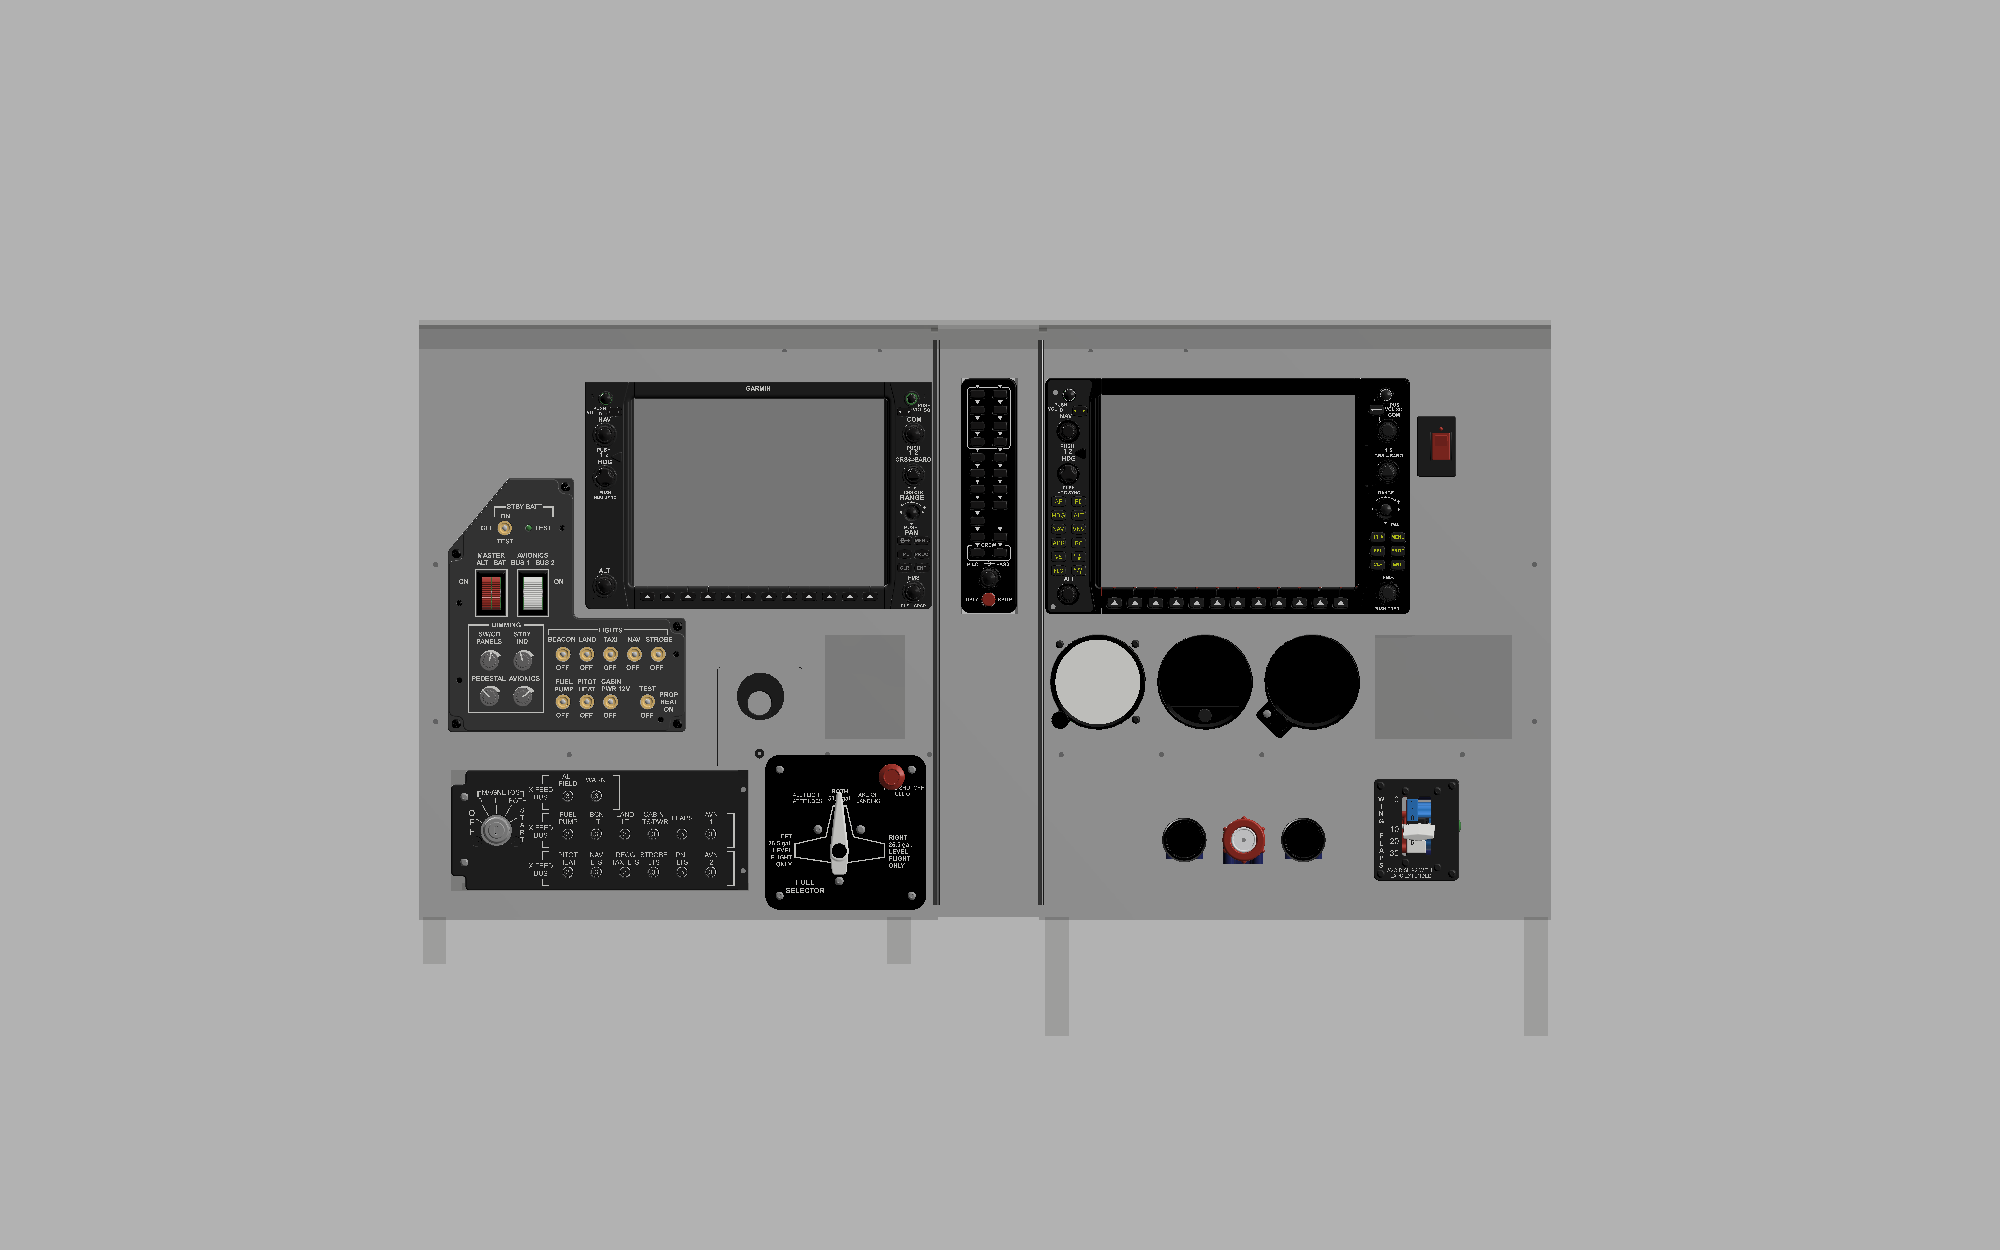
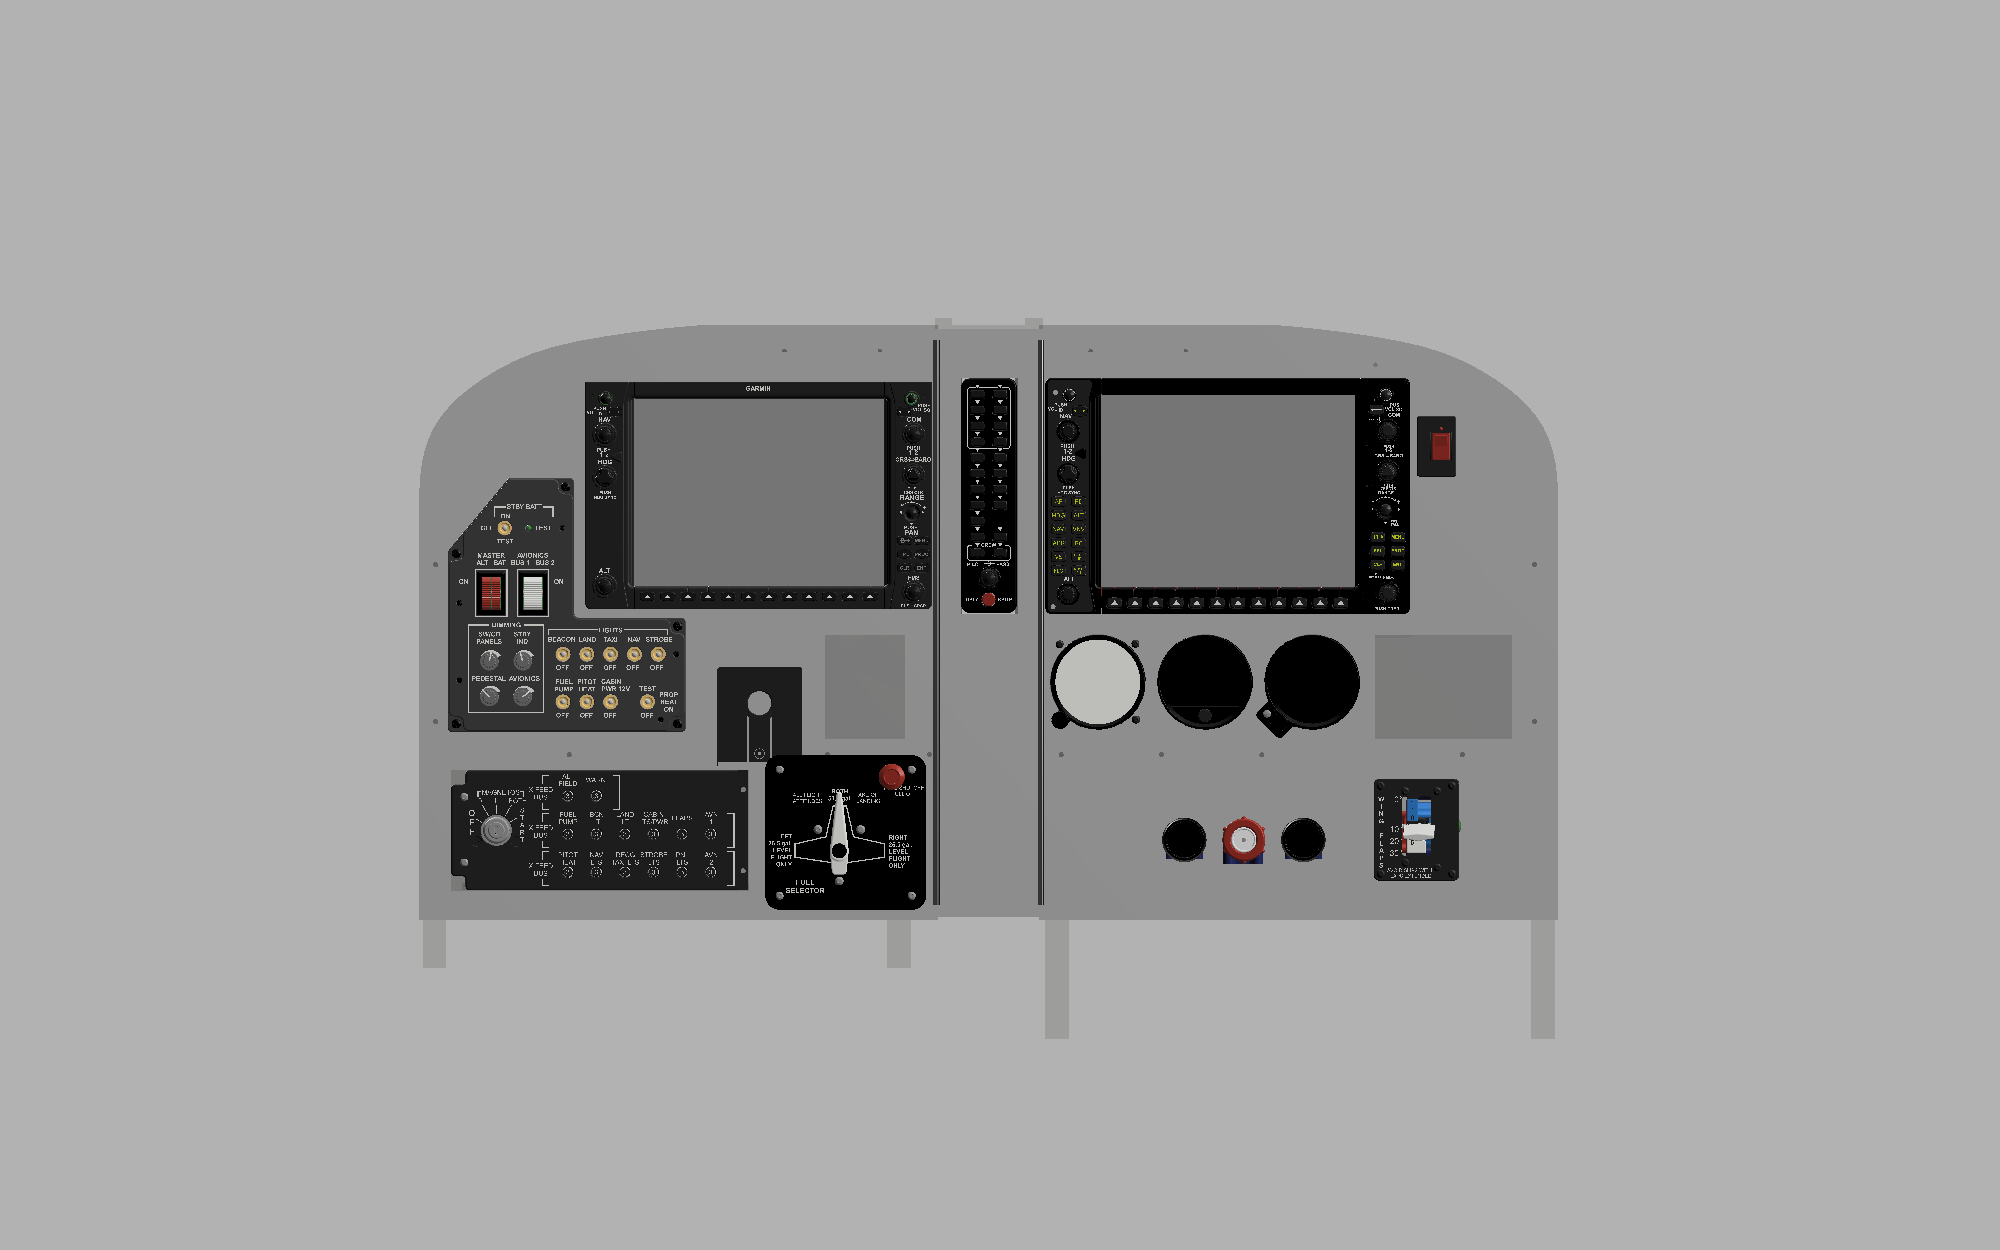
Keep the radius; forward-extended rim skins close the case completely
Each half gets a 3 mm skin following the real panel outline (side, curved
corner, top, bottom) from its rear lid to 46.5 mm in front of the face, so the
folded halves meet edge to edge. 6 mm edge filler on the right half evens the
outlines. Rear 2020 frames stay inside the curve; curved rear lids. The top rim
is the glareshield, magnetic middle piece kept. Clash and fold checks clean.

diff --git a/fusion/build_rim.py b/fusion/build_rim.py
@@ -1,0 +1,134 @@
+# Closing rim (Jason: keep the radius, extend the sides so it closes completely). Runs after build_storage.
+# Each half gets a 3 mm skin that follows HIS panel outline (outer side, the big curved top corner, top run and
+# bottom), from its rear lid to 46.5 mm in front of the panel face = half the folded face gap. Folded, the two
+# rims meet edge to edge in the middle of the gap, so the case is closed on top, bottom and the outer side; the
+# spacer closes the hinge side. Deployed, the top run of the rim is the glareshield (46.5 mm overhang).
+# The outline is sampled from the real panel and used as a convex polygon (intersection of half-spaces), so the
+# skin, the curved rear lid and the right half's 6 mm edge filler all share exactly the same curve.
+# Also: seam-side walls of the rear boxes, and the magnetic middle glareshield piece over the spacer (deployed only).
+# Units mm, frame as build_case_mip (X right, Y toward pilot, Z up, u = x + 460).
+import importlib.util, math
+import adsk.core, adsk.fusion
+
+BASE = r'D:/Admin/Documents/Projects/FlightSimCase/fusion/'
+
+
+def _load(n):
+    spec = importlib.util.spec_from_file_location(n, BASE + n + '.py')
+    m = importlib.util.module_from_spec(spec); spec.loader.exec_module(m)
+    return m
+
+
+bcm = _load('build_case_mip')
+P = bcm.P
+
+
+def X(u):
+    return u - 460.0
+
+
+def build_rim():
+    st = _load('build_storage')
+    app = adsk.core.Application.get()
+    d = adsk.fusion.Design.cast(app.activeProduct)
+    root = d.rootComponent
+    tbm = adsk.fusion.TemporaryBRepManager.get()
+    SUB = adsk.fusion.BooleanTypes.DifferenceBooleanType
+    UNI = adsk.fusion.BooleanTypes.UnionBooleanType
+    INT = adsk.fusion.BooleanTypes.IntersectionBooleanType
+
+    def op(a, b, k):
+        if not tbm.booleanOperation(a, b, k):
+            raise RuntimeError('boolean failed')
+
+    def F(x, y, z):
+        return adsk.core.Point3D.create(x / 10.0, -y / 10.0, z / 10.0)
+
+    def box(x0, x1, y0, y1, a, b):
+        p = F(x0, y0, a); q = F(x1, y1, b)
+        lo = [min(p.x, q.x), min(p.y, q.y), min(p.z, q.z)]; hi = [max(p.x, q.x), max(p.y, q.y), max(p.z, q.z)]
+        c = adsk.core.Point3D.create((lo[0] + hi[0]) / 2, (lo[1] + hi[1]) / 2, (lo[2] + hi[2]) / 2)
+        return tbm.createBox(adsk.core.OrientedBoundingBox3D.create(c, adsk.core.Vector3D.create(1, 0, 0), adsk.core.Vector3D.create(0, 1, 0),
+                                                                   hi[0] - lo[0], hi[1] - lo[1], hi[2] - lo[2]))
+
+    uA, uB, hg = P['uA'], P['uB'], P['hg']
+    l1 = uB - hg; r0 = uA + hg; r1 = 920.0 + P['shift_right']
+    tp, zl, sk, rim, zt = P['t_panel'], P['z_low'], P['skin'], P['rim'], 369.0
+    hosts = {o.component.name: o for o in root.occurrences}
+
+    # --- sample his top outline from the left panel: (d, z), d = distance in from the outer edge
+    pan = [b for b in hosts['Left half'].component.bRepBodies if b.name.startswith('PANEL 737')][0]
+
+    def slab_top(dd):
+        c = tbm.copy(pan); op(c, box(X(dd) - 0.05, X(dd) + 0.05, -20, 20, 150, 400), INT)
+        return c.boundingBox.maxPoint.z * 10
+
+    def slab_edge(z):
+        c = tbm.copy(pan); op(c, box(X(-5), X(200), -20, 20, z - 0.05, z + 0.05), INT)
+        return c.boundingBox.minPoint.x * 10 + 460
+    pts = [(0.0, 216.0)] + [(slab_edge(z), z) for z in (225.0, 235.0, 245.0, 255.0, 265.0, 275.0)]
+    pts += [(dd, slab_top(dd)) for dd in (12.0, 18, 25, 33, 42, 52, 64, 78, 94, 112, 132, 155, 180, 205, 225, 236)]
+    pts = sorted(set((round(p[0], 2), round(p[1], 2)) for p in pts))
+    pts.append((l1, zt))
+
+    def interior(host, off, y0, y1, edge_shift=0.0):
+        """region inside the half's outline grown outward by `off` (not at the seam), extruded y0..y1"""
+        if host == 'Left half':
+            body = box(X(-off), X(l1), y0, y1, zl - off, 470)
+            umap = lambda dd: dd
+            sgn = 1.0
+        else:
+            R = r1 + edge_shift
+            body = box(X(r0), X(R + off), y0, y1, zl - off, 470)
+            umap = lambda dd: R - dd
+            sgn = -1.0
+        for (d0, z0), (d1, z1) in zip(pts[:-1], pts[1:]):
+            dd, dz = d1 - d0, z1 - z0
+            ln = math.hypot(dd, dz)
+            nd, nz = -dz / ln, dd / ln              # outward normal in (d, z)
+            nu = sgn * nd
+            mu, mz = (umap(d0) + umap(d1)) / 2.0, (z0 + z1) / 2.0
+            cu = mu + nu * (off - 500.0); cz = mz + nz * (off - 500.0)
+            tdir = adsk.core.Vector3D.create(umap(d1) - umap(d0), 0, dz); tdir.normalize()
+            half = tbm.createBox(adsk.core.OrientedBoundingBox3D.create(F(X(cu), (y0 + y1) / 2.0, cz), tdir, adsk.core.Vector3D.create(0, 1, 0),
+                                                                        400.0, abs(y1 - y0) / 10.0 + 0.2, 100.0))
+            op(body, half, INT)
+        return body
+
+    sh = {'Left half': 0.0, 'Right half': P['r_ext']}
+    items = {'Left half': [], 'Right half': [], 'Spacer': []}
+    for h in ('Left half', 'Right half'):
+        B = st.S['tub_back'][h]
+        y0, y1 = -B + sk, rim
+        skin = interior(h, sk, y0, y1, sh[h])
+        op(skin, interior(h, 0.0, y0 - 1, y1 + 1, sh[h]), SUB)
+        items[h].append(('PANEL rim skin, closes the case (3 mm)', skin))
+        items[h].append(('PANEL rear lid (3 mm, removable)', interior(h, sk, -B, -B + sk, sh[h])))
+        # seam-side wall of the rear box (outside the seam column, behind the seam angle)
+        if h == 'Left half':
+            items[h].append(('PANEL seam side wall (3 mm)', box(X(l1), X(l1) + sk, -B, -tp - 20, zl - sk, zt + sk)))
+        else:
+            items[h].append(('PANEL seam side wall (3 mm)', box(X(r0) - sk, X(r0), -B, -tp - 20, zl - sk, zt + sk)))
+    # right half: 6 mm edge filler in the panel plane so both halves have the same outline (430 wide)
+    fill = interior('Right half', 0.0, -tp, 0.0, P['r_ext'])
+    op(fill, interior('Right half', 0.0, -tp - 1, 1.0, 0.0), SUB)
+    items['Right half'].append(('PANEL edge filler 6 mm (right half)', fill))
+
+    # middle glareshield piece over the spacer: deployed only, magnets into the rim ends
+    M = box(X(l1), X(r0), -tp, rim, zt, zt + sk)
+    op(M, box(X(l1), X(r0), -tp, 0, zt - 0.0, zt + sk), UNI)
+    for ue, sgn in ((l1, 1), (r0, -1)):
+        op(M, box(X(ue) if sgn > 0 else X(ue) - 15, X(ue) + 15 if sgn > 0 else X(ue), 3.0, rim - 3, zt + sk, zt + sk + 6), UNI)
+    items['Spacer'].append(('PRINT glareshield middle (magnetic, deployed only)', M))
+
+    for h, its in items.items():
+        comp = hosts[h].component
+        bf = comp.features.baseFeatures.add(); bf.startEdit()
+        for nm, bd in its:
+            nb = comp.bRepBodies.add(bd, bf); nb.name = nm
+        bf.finishEdit()
+    print('rim: 3 mm skins to %.1f mm in front of the face, outline points %d' % (rim, len(pts)))
+
+
+def run(_context: str):
+    build_rim()

diff --git a/fusion/build_storage.py b/fusion/build_storage.py
@@ -86,36 +86,26 @@ def build_storage():
     ext = importlib.util.module_from_spec(spx); spx.loader.exec_module(ext)
     prof = ext.make(tbm, F)
     zt = 369.0
-    # rear box of each half, built from 2020 extrusion (square top): a rear frame just inside the removable lid,
-    # four corner depth members back from the front frame, 3 mm ply skins on the outer side, top, bottom and the
-    # seam side (outside, so nothing inside the tub loses space), and the 3 mm rear lid.
+    # rear frame of each half in 2020 extrusion, kept INSIDE his curved outline: a rear frame just inside the lid
+    # (outer post up to z 216 where the corner curve starts, seam post full height, bottom rail, top rail along the
+    # straight top run) and depth members back from the front frame. The curved rim + rear lid (build_rim) skin it.
     for h in ('Left half', 'Right half'):
         B = S['tub_back'][h]
-        yr1 = -B + w; yr0 = yr1 + T            # rear frame occupies y yr1..yr0, just inside the lid (pilot y, negative = behind)
+        yr1 = -B + w; yr0 = yr1 + T            # rear frame occupies y yr1..yr0, just inside the lid
         if h == 'Left half':
-            uo0, uo1, us0, us1, ua, ub = l0, l0 + T, l1 - T, l1, l0, l1     # outer column, seam column
+            uo0, uo1, us0, us1, ut0, ut1 = l0, l0 + T, l1 - T, l1, 240.0, l1 - T
         else:
-            uo0, uo1, us0, us1, ua, ub = r1 - T, r1, r0, r0 + T, r0, r1
+            ro = r1 + P['r_ext']
+            uo0, uo1, us0, us1, ut0, ut1 = ro - T, ro, r0, r0 + T, r0 + T, 705.0
         fr = []
-        # rear frame: two verticals + top/bottom horizontals
-        fr.append(('2020 Rear post %d' % round(zt - zl), prof(X(uo0), X(uo1), yr1, yr0, zl, zt)))
+        fr.append(('2020 Rear post %d' % round(216.0 - zl), prof(X(uo0), X(uo1), yr1, yr0, zl, 216.0)))
         fr.append(('2020 Rear post %d' % round(zt - zl), prof(X(us0), X(us1), yr1, yr0, zl, zt)))
-        hlo, hhi = min(uo1, us1), max(uo0, us0)
-        hlo = (uo1 if uo1 < us0 else us1); hhi = (us0 if uo1 < us0 else uo0)
-        fr.append(('2020 Rear rail %d' % round(hhi - hlo), prof(X(hlo), X(hhi), yr1, yr0, zt - T, zt)))
-        fr.append(('2020 Rear rail %d' % round(hhi - hlo), prof(X(hlo), X(hhi), yr1, yr0, zl, zl + T)))
-        # corner depth members: outer ones start behind the 2040 upright (y -49), seam ones behind the seam angle (-29)
-        for (c0, c1, yf) in ((uo0, uo1, -tp - 40), (us0, us1, -tp - 20)):
-            for (z0, z1) in ((zt - T, zt), (zl, zl + T)):
-                fr.append(('2020 Depth %d' % round(yf - yr0), prof(X(c0), X(c1), yf, yr0, z0, z1)))
-        # skins (3 mm ply), outside the frame
-        side = (X(ua) - w, X(ua)) if h == 'Left half' else (X(ub), X(ub) + w)
-        seam = (X(ub), X(ub) + w) if h == 'Left half' else (X(ua) - w, X(ua))
-        fr.append(('PANEL skin outer side (3 mm ply)', box(side[0], side[1], yr1 - 0.0, -tp, zl, zt)))
-        fr.append(('PANEL skin seam side (3 mm ply)', box(seam[0], seam[1], -B, -tp - 20, zl, zt)))
-        fr.append(('PANEL skin top (3 mm ply)', box(X(ua) - w, X(ub) + w, -B, -tp, zt, zt + w)))
-        fr.append(('PANEL skin bottom (3 mm ply)', box(X(ua) - w, X(ub) + w, -B, -tp - 40, zl - w, zl)))   # stops behind the feet
-        fr.append(('PANEL rear lid (3 mm ply, removable)', box(X(ua) - w, X(ub) + w, -B, -B + w, zl, zt)))
+        blo, bhi = (uo1, us0) if uo1 < us0 else (us1, uo0)
+        fr.append(('2020 Rear rail %d' % round(bhi - blo), prof(X(blo), X(bhi), yr1, yr0, zl, zl + T)))
+        fr.append(('2020 Rear rail %d' % round(ut1 - ut0), prof(X(ut0), X(ut1), yr1, yr0, zt - T, zt)))
+        for (c0, c1, yf, z0, z1) in ((uo0, uo1, -tp - 40, zl, zl + T), (uo0, uo1, -tp - 40, 216.0 - T, 216.0),
+                                     (us0, us1, -tp - 20, zl, zl + T), (us0, us1, -tp - 20, zt - T, zt)):
+            fr.append(('2020 Depth %d' % round(yf - yr0), prof(X(c0), X(c1), yf, yr0, z0, z1)))
         items[h].extend(fr)
 
     # face pockets (open-front print trays behind the panel cut-outs)

diff --git a/fusion/build_case_mip.py b/fusion/build_case_mip.py
@@ -20,7 +20,11 @@ P = dict(
     z_low=-125.0,                # bottom of the lower panel (his fuse panels reach z -103)
     # open face pockets (u0, u1, z0, z1): blank panel areas that face the other half's protruding parts when
     # closed, so they double as storage pockets; between the 2020 rails at z 10 and z 126
-    square_top=True,             # Jason: lose the top corner radius -> straight extrusion frame + straight glareshield
+    square_top=False,            # Jason: KEEP his curved top corners
+    r_ext=6.0,                   # right half is 6 mm narrower than the left (424 vs 430): a 6 mm edge filler on its outer
+                                 # edge evens them so the forward-extended rims meet exactly when folded
+    rim=46.5,                    # each half's rim (top, curved corner, outer side, bottom) runs this far in front of the face
+    skin=3.0,
     pockets=(('Left half', 338.0, 405.0, 24.0, 112.0), ('Right half', 800.0, 915.0, 24.0, 112.0)),
 )
 
@@ -141,17 +145,19 @@ def build():
     ft = P['foot']; yk = P['kn']
     left = [('PANEL 737DIYSIM MIP - left (switches + PFD)', left_panel), seam_angle(l1, -1),
             ('HINGE leaf', box(X(l1), X(l1) + 1.4, -tp - 20, 0, zl + 10, 359))]
-    left += frame(l0, l1, True, False, [(l0 + T, l1 - 20, zl + 10), (l0 + T, l1 - 20, 10.0), (215.5, l1 - 20, 126.0), (l0 + T, l1 - 20, 359.0)])
+    left += frame(l0, l1, True, False, [(l0 + T, l1 - 20, zl + 10), (l0 + T, l1 - 20, 10.0), (215.5, l1 - 20, 126.0), (240.0, l1 - 20, 359.0)])
     for xu in (X(l0), X(l1) - 40):
-        left.append(('PRINT foot', box(xu, xu + T, -tp - 40, 0, zl - ft, zl)))
+        left.append(('PRINT foot', box(xu, xu + T, -tp - 40, 0, zl - P['skin'] - ft, zl - P['skin'])))   # under the bottom rim
     spacer = [('PANEL spacer (GMA 1347, flush)', spacer_panel), seam_angle(s0, +1), seam_angle(s1, -1),
               ('HINGE knuckle B', vcyl(X(uB), yk, zl + 10, 359, 3.0)), ('HINGE knuckle A', vcyl(X(uA), yk, zl + 10, 359, 3.0))]
     right = [('PANEL 737DIYSIM MIP - right (MFD + standby)', right_panel), seam_angle(r0, +1),
              ('HINGE leaf', box(X(r0) - 1.4, X(r0), -tp - 20, 0, zl + 10, 359))]
-    right += frame(r0, r1, False, True, [(r0 + 20, r1 - T, zl + 10), (r0 + 20, r1 - T, 10.0), (r0 + 20, r1 - T, 126.0), (r0 + 20, r1 - T, 359.0)])
-    for xu in (X(r0) + 2, X(r1) - T):
-        right.append(('PRINT clamp foot', box(xu, xu + T, -tp - 40, 0, zl - ft, zl)))
-        right.append(('PRINT desk clamp jaw', box(xu, xu + T, 0, 12, zl - ft - 60, zl - ft)))
+    r1f = r1 + P['r_ext']           # outer frame line of the right half (after the edge filler)
+    right += frame(r0, r1f, False, True, [(r0 + 20, r1f - T, zl + 10), (r0 + 20, r1f - T, 10.0), (r0 + 20, r1f - T, 126.0), (r0 + 20, 705.0, 359.0)])
+    zb = zl - P['skin']
+    for xu in (X(r0) + 2, X(r1f) - T):
+        right.append(('PRINT clamp foot', box(xu, xu + T, -tp - 40, 0, zb - ft, zb)))
+        right.append(('PRINT desk clamp jaw', box(xu, xu + T, 0, 12, zb - ft - 60, zb - ft)))
 
     occR = add('Right half', right, grounded=True)
     occS = add('Spacer', spacer)

diff --git a/fusion/check_stow.py b/fusion/check_stow.py
@@ -1,7 +1,7 @@
 # Stowage check: stowed items, pods, tubs and face pockets vs everything else on the same half (open state).
 import adsk.core, adsk.fusion
 
-NEW = ('PANEL rear', 'PRINT face pocket', 'PRINT pedestal', 'REF Logitech', 'PRINT glareshield', 'PANEL bottom closure', 'PANEL side closure', 'PRINT false-front', 'REF powered', 'REF 12V', 'PANEL skin', '2020 Rear', '2020 Depth')
+NEW = ('PANEL rear', 'PRINT face pocket', 'PRINT pedestal', 'REF Logitech', 'PRINT glareshield', 'PANEL bottom closure', 'PANEL side closure', 'PRINT false-front', 'REF powered', 'REF 12V', 'PANEL skin', '2020 Rear', '2020 Depth', 'PANEL rim', 'PANEL seam side', 'PANEL edge filler')
 
 
 def check(host_name, everything=False):

diff --git a/fusion/rebuild_mip.py b/fusion/rebuild_mip.py
@@ -26,7 +26,7 @@ def run(_context: str):
     load('place_vendor').place()
     load('build_lower').build_lower()
     load('build_storage').build_storage()
-    load('build_glareshield').build_glareshield()
+    load('build_rim').build_rim()
     load('build_falsefront').build_falsefront()
     lib = app.materialLibraries.itemByName('Fusion Material Library')
     mats = {'REF': 'ABS Plastic', 'PANEL': 'Plywood, Finish', 'ALU': 'Aluminum 6061', '20': 'Aluminum 6061', 'PRINT': 'PET Plastic'}
